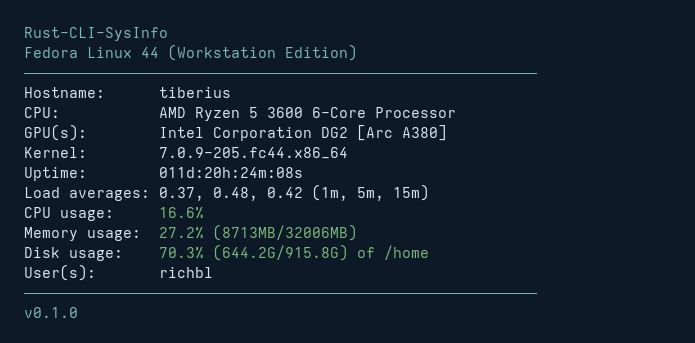
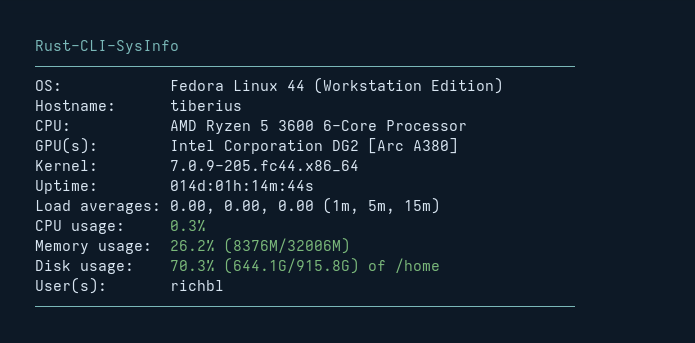
refactor(app): :art: Consolidated shared crates into prelude module; general code cleanup

Changed region(s): [[0.0302, 0.2041, 0.7252, 0.9329], [0.0302, 0.0875, 0.5137, 0.1749]]

diff --git a/src/main.rs b/src/main.rs
@@ -23,8 +23,10 @@ use crate::services::{
 };
 
 /// Application version sourced directly from `Cargo.toml`
-const VERSION: &str = env!("CARGO_PKG_VERSION");
-const SEP: &str = "─────────────────────────────────────────────────────────";
+pub const VERSION: &str = env!("CARGO_PKG_VERSION");
+pub const APP_NAME: &str = "Rust-CLI-SysInfo";
+
+const SEP: &str = "────────────────────────────────────────────────────────────";
 
 /// `Services` aggregates all data-collection services used by the dashboard
 struct Services {
@@ -81,11 +83,10 @@ impl Services {
     ///
     fn render(&self, data: &CollectedData, colors: &Colors) {
         println!(
-            "  {}{}Rust-CLI-SysInfo{}",
-            colors.bold, colors.cyan, colors.reset
+            "  {}{}{}{}",
+            colors.bold, colors.cyan, APP_NAME, colors.reset
         );
 
-        println!("  {}{}{}", colors.cyan, data.sys.os, colors.reset);
         println!("  {}{}{}", colors.cyan, SEP, colors.reset);
 
         self.sys.render(&data.sys, colors);
@@ -111,10 +112,6 @@ impl Services {
         }
 
         println!("  {}{}{}", colors.cyan, SEP, colors.reset);
-        println!(
-            "{}{}  v{}{}",
-            colors.bold, colors.cyan, VERSION, colors.reset
-        );
     }
 }
 

diff --git a/src/cli.rs b/src/cli.rs
@@ -1,6 +1,8 @@
 use std::io::{self, IsTerminal};
 use std::process;
 
+use crate::{APP_NAME, VERSION};
+
 /// Parsed command-line options for the dashboard
 pub struct Opts {
     pub clear: bool,        // Clear the terminal before displaying output
@@ -38,6 +40,7 @@ impl Opts {
             match arg {
                 lexopt::Arg::Short('n') | lexopt::Arg::Long("no-clear") => clear = false,
                 lexopt::Arg::Short('o') | lexopt::Arg::Long("no-color") => color = false,
+
                 lexopt::Arg::Short('d') | lexopt::Arg::Long("disk") => {
                     disk_mount = parser
                         .value()
@@ -80,9 +83,11 @@ impl Opts {
 ///
 fn print_usage() {
     println!(
-        "\nUsage: {} [OPTIONS]\n\n{}",
+        "\n{} v{}\nUsage: {} [OPTIONS]\n\n{}",
+        APP_NAME,
+        VERSION,
         env!("CARGO_PKG_NAME"),
-        USAGE.trim_start_matches('\n')
+        USAGE.trim_start_matches('\n'),
     );
 }
 

diff --git a/src/services.rs b/src/services.rs
@@ -7,6 +7,15 @@ pub mod users;
 use crate::core::error::AppError;
 use crate::presentation::colors::Colors;
 
+/// `prelude` re-exports the types shared across all service modules, eliminating
+/// duplicate `use` statements in each service file
+pub mod prelude {
+    pub use super::Service;
+    pub use crate::core::error::AppError;
+    pub use crate::presentation::colors::{Colors, Threshold};
+    pub use crate::presentation::format::print_row;
+}
+
 /// ` Service` is the common interface implemented by every system information service
 pub trait Service {
     type Data;

diff --git a/src/services/memory.rs b/src/services/memory.rs
@@ -1,10 +1,7 @@
 use std::fs;
 use std::io::{self, BufRead};
 
-use super::Service;
-use crate::core::error::AppError;
-use crate::presentation::colors::{Colors, Threshold};
-use crate::presentation::format::print_row;
+use super::prelude::*;
 
 /// Memory usage metrics parsed from `/proc/meminfo`
 pub struct MemInfo {
@@ -75,7 +72,7 @@ impl Service for MemoryService {
     ///
     fn render(&self, mem: &Self::Data, c: &Colors) {
         let mem_str = format!(
-            "{:.1}% ({}MB/{}MB)",
+            "{:.1}% ({}M/{}M)",
             mem.pct,
             mem.used_kb / 1024,
             mem.total_kb / 1024

diff --git a/src/services/system.rs b/src/services/system.rs
@@ -5,10 +5,8 @@ use std::path::Path;
 
 use pci_ids::{Device, FromId, Vendor};
 
-use super::Service;
-use crate::core::error::AppError;
+use super::prelude::*;
 use crate::core::utils::{read_first_line, read_hex_u16};
-use crate::presentation::colors::{Colors, Threshold};
 use crate::presentation::format::{format_uptime, print_row};
 
 /// System-level information collected from `/proc`, `/sys`, and `/etc`
@@ -60,9 +58,10 @@ impl Service for SystemService {
         })
     }
 
-    /// `render()` renders hostname, CPU, GPU(s), kernel version, and system uptime
+    /// `render()` renders OS, hostname, CPU, GPU(s), kernel version, and system uptime
     ///
     fn render(&self, sys: &Self::Data, c: &Colors) {
+        print_row("  OS:", &sys.os, &Threshold::None, c);
         print_row("  Hostname:", &sys.hostname, &Threshold::None, c);
 
         print_row(

diff --git a/src/services/disk.rs b/src/services/disk.rs
@@ -1,9 +1,7 @@
 use std::process;
 
-use super::Service;
-use crate::core::error::AppError;
-use crate::presentation::colors::{Colors, Threshold};
-use crate::presentation::format::{format_size, print_row};
+use super::prelude::*;
+use crate::presentation::format::format_size;
 
 /// Disk usage metrics for a single mount point
 pub struct DiskInfo {

diff --git a/src/services/cpu.rs b/src/services/cpu.rs
@@ -1,11 +1,8 @@
 use std::thread;
 use std::time::Duration;
 
-use super::Service;
-use crate::core::error::AppError;
+use super::prelude::*;
 use crate::core::utils::read_first_line;
-use crate::presentation::colors::{Colors, Threshold};
-use crate::presentation::format::print_row;
 
 /// CPU metrics collected from the system
 pub struct CpuInfo {

diff --git a/src/services/users.rs b/src/services/users.rs
@@ -1,9 +1,6 @@
 use std::process;
 
-use super::Service;
-use crate::core::error::AppError;
-use crate::presentation::colors::{Colors, Threshold};
-use crate::presentation::format::print_row;
+use super::prelude::*;
 
 /// Logged-in user list collected from `who`
 pub struct UsersInfo {